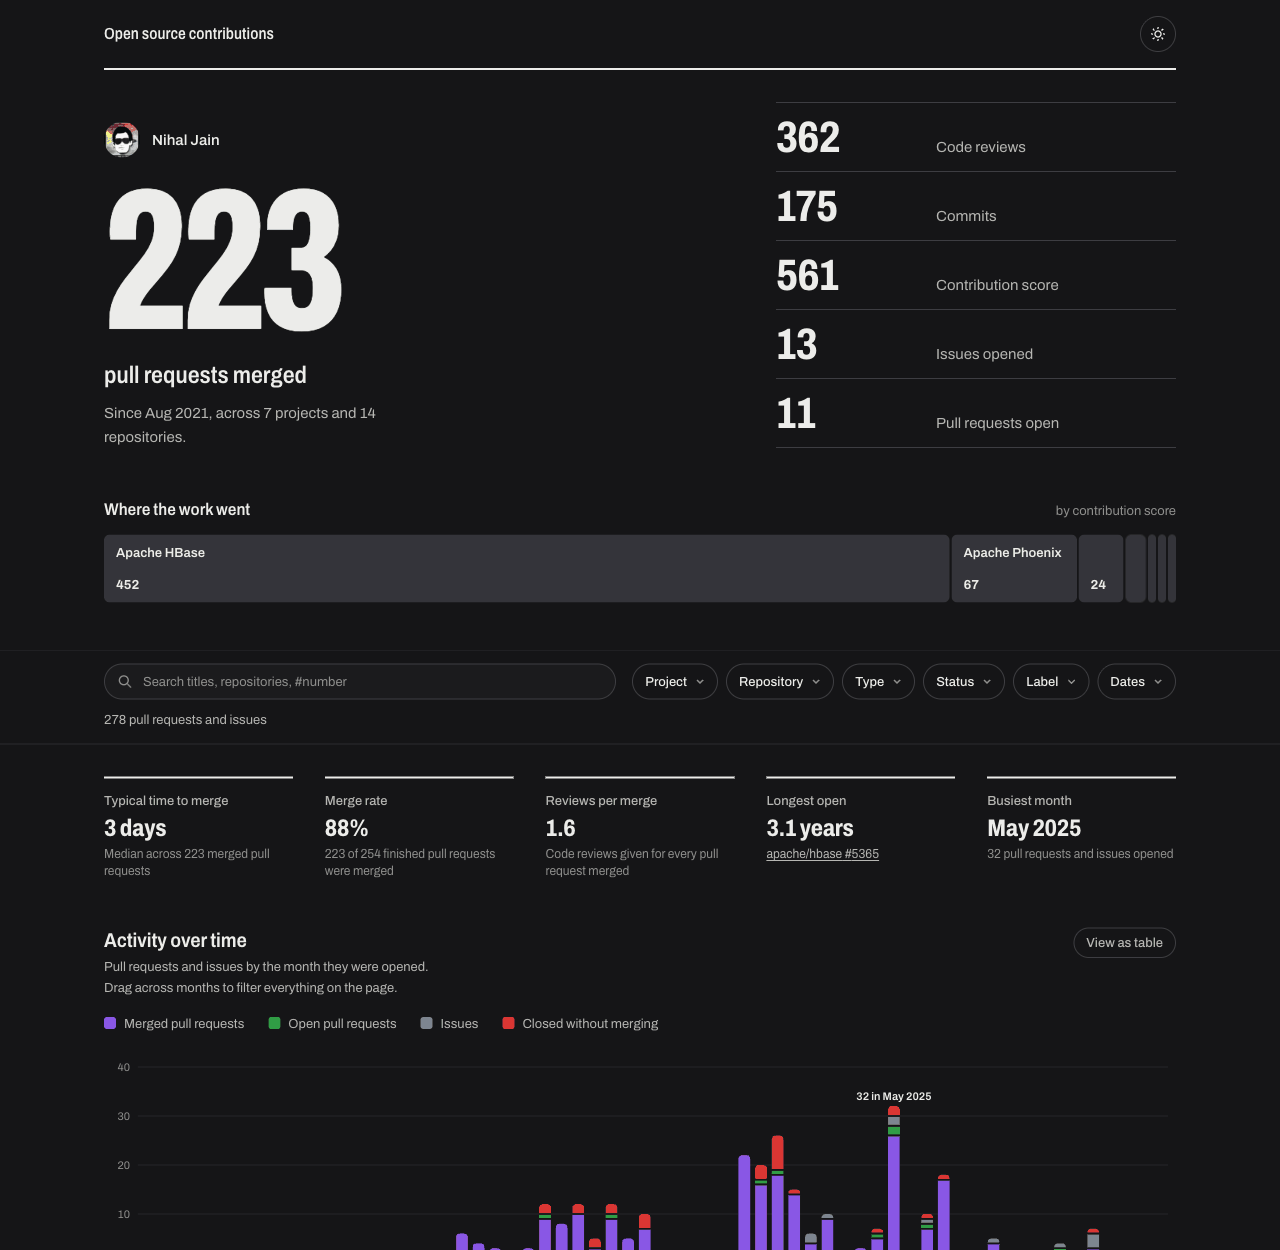
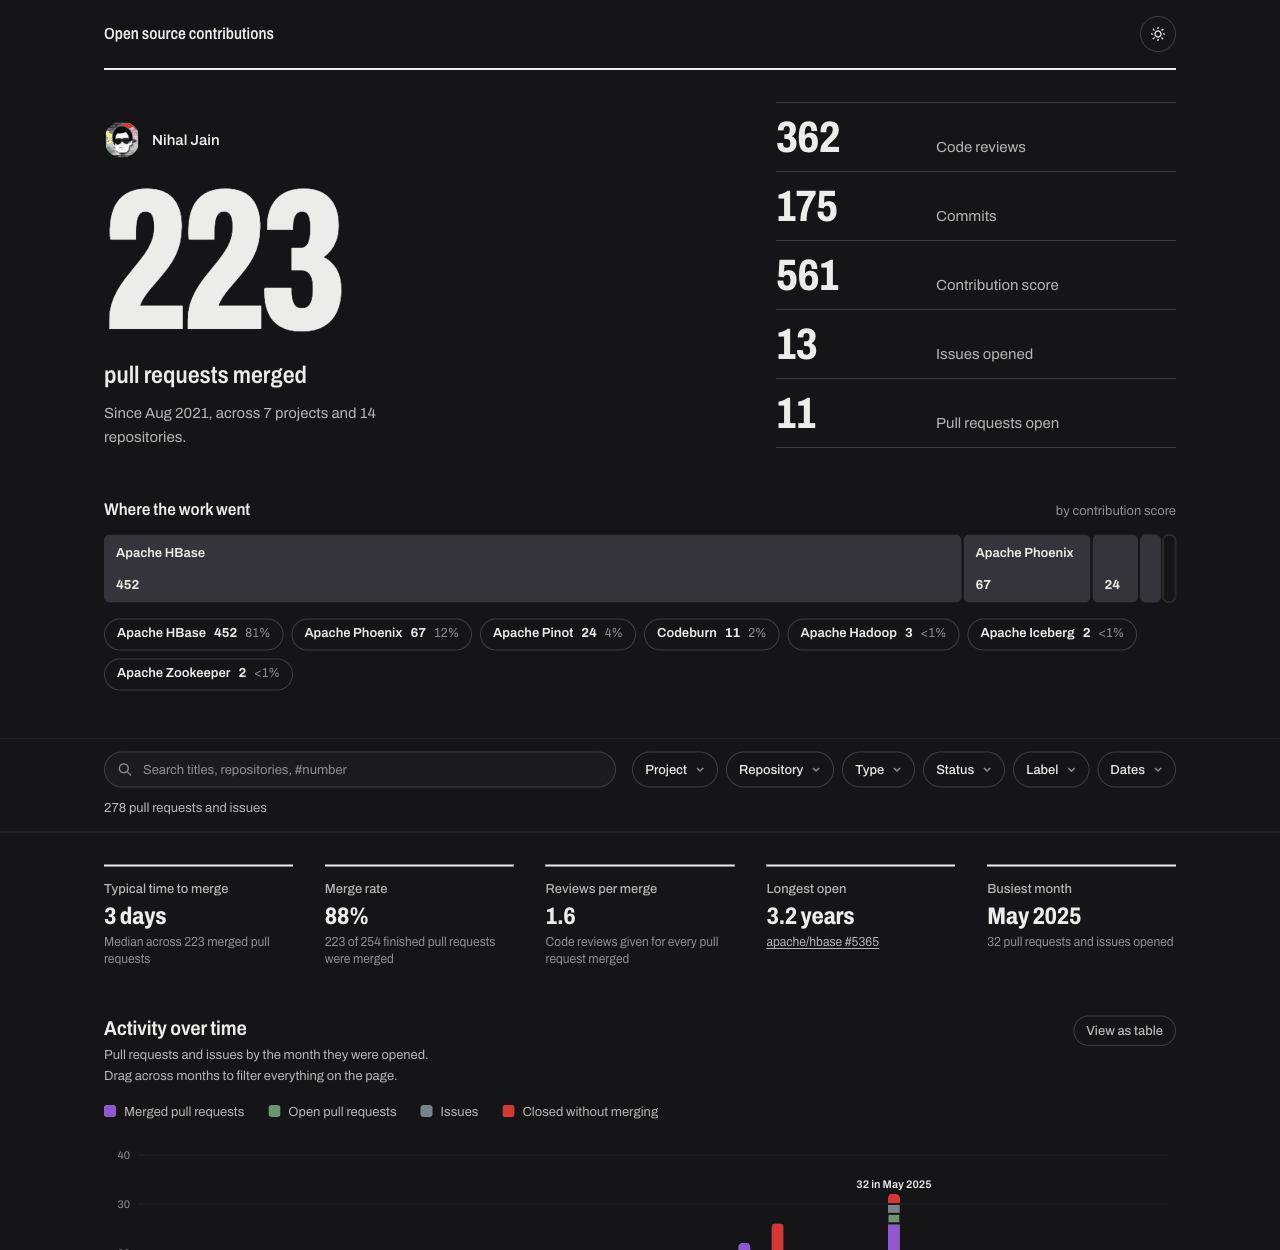
docs: explain the project bar and index, refresh previews

diff --git a/dashboard/DESIGN.md b/dashboard/DESIGN.md
@@ -44,11 +44,18 @@ One family, [Archivo](https://fonts.google.com/specimen/Archivo), self-hosted as
 - Gridlines are solid hairlines. Values are labelled at the tip, and only the peak of the timeline is labelled directly.
 - The timeline, project bars and speed bands all work from the same filtered data, and each part ignores the filters that would hide its own choices (the timeline keeps every month so a range can be changed; the project list keeps every project so one can be switched off).
 
+## The project bar
+
+Real contribution data is skewed: one project is often 80% of the score. A proportional bar is the right form for that story, but it can only name a segment wide enough to hold its name, so on skewed data most segments are unlabelled slivers. Two decisions follow:
+
+- **Name everything beneath it.** An index lists every project with its value and share, ten at first with "Show all" for longer tails, and the bar and index highlight together.
+- **Never widen slivers.** Forcing every thin segment to a minimum width lets a long tail take space from the projects that matter, so the bar misstates the concentration (measured: a project holding 52% of the score was drawn at 8% before this rule). Segments under 6px are folded into one outlined "smaller projects" segment of their true combined width.
+
 ## Accessibility
 
 - Keyboard: every control is reachable and operable; the timeline supports arrow keys, Home, End, Enter and Escape.
 - Screen readers: landmarks, a skip link, `aria-pressed` on toggles, `aria-sort` on the table, and a live region for result counts.
-- Targets: interactive targets are at least 24 by 24 pixels. Ribbon segments narrower than that are drawn for proportion but not clickable; the project list offers the same control at full size.
+- Targets: interactive targets are at least 24 by 24 pixels. The proportional bar in the hero is a visual summary, hidden from assistive technology and not focusable; the project index beneath it carries every project as a full-size control.
 - Motion: one entrance animation on the ribbon, removed under `prefers-reduced-motion`.
 - Lighthouse (mobile): accessibility, best practices, SEO and agentic browsing all 100.
 

diff --git a/dashboard/README.md b/dashboard/README.md
@@ -18,7 +18,7 @@ It is a plain static site with no server and no runtime API. The data is publish
 ## What it shows
 
 - **The headline.** Merged pull requests, with code reviews, commits, contribution score, issues and open pull requests beside it. With more than one contributor it describes the team instead of a person.
-- **Where the work went.** A ribbon sized by contribution score. Select a project to scope the whole page to it.
+- **Where the work went.** A bar sized by contribution score shows at a glance how concentrated the work is, and an index beneath it names every project with its value and share. Select a project to scope the whole page to it.
 - **Highlights.** Typical time to merge, merge rate, reviews per merged pull request, the longest-open pull request, and the busiest month.
 - **Activity over time.** Pull requests and issues by month and outcome. Drag across months (or use the arrow keys, Enter and Escape) to filter everything on the page.
 - **Projects and repositories.** Ranked bars with drill-down to repositories and your rank among each repository's contributors.
